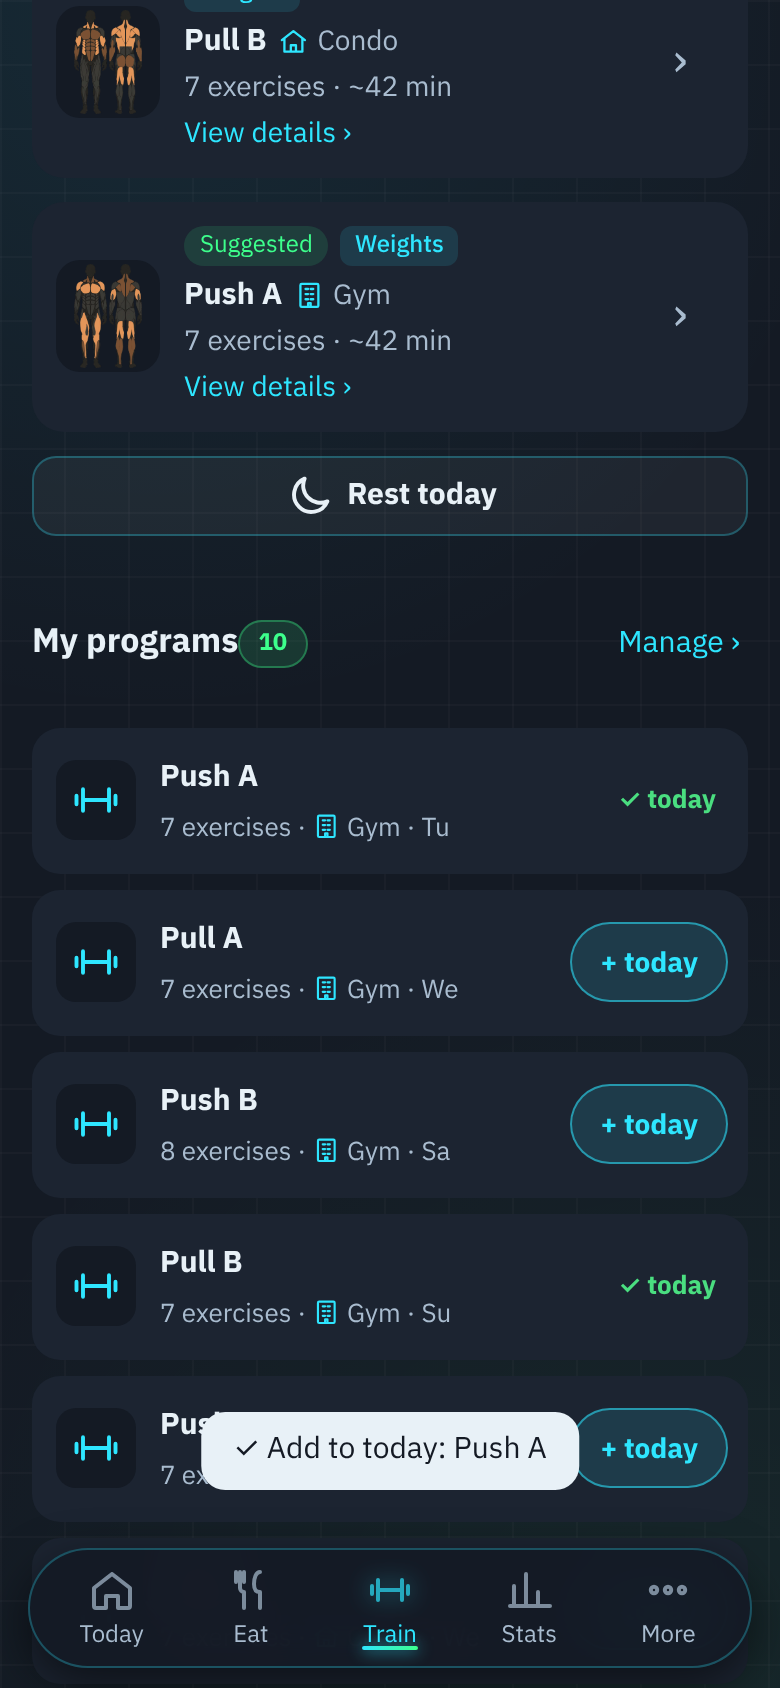
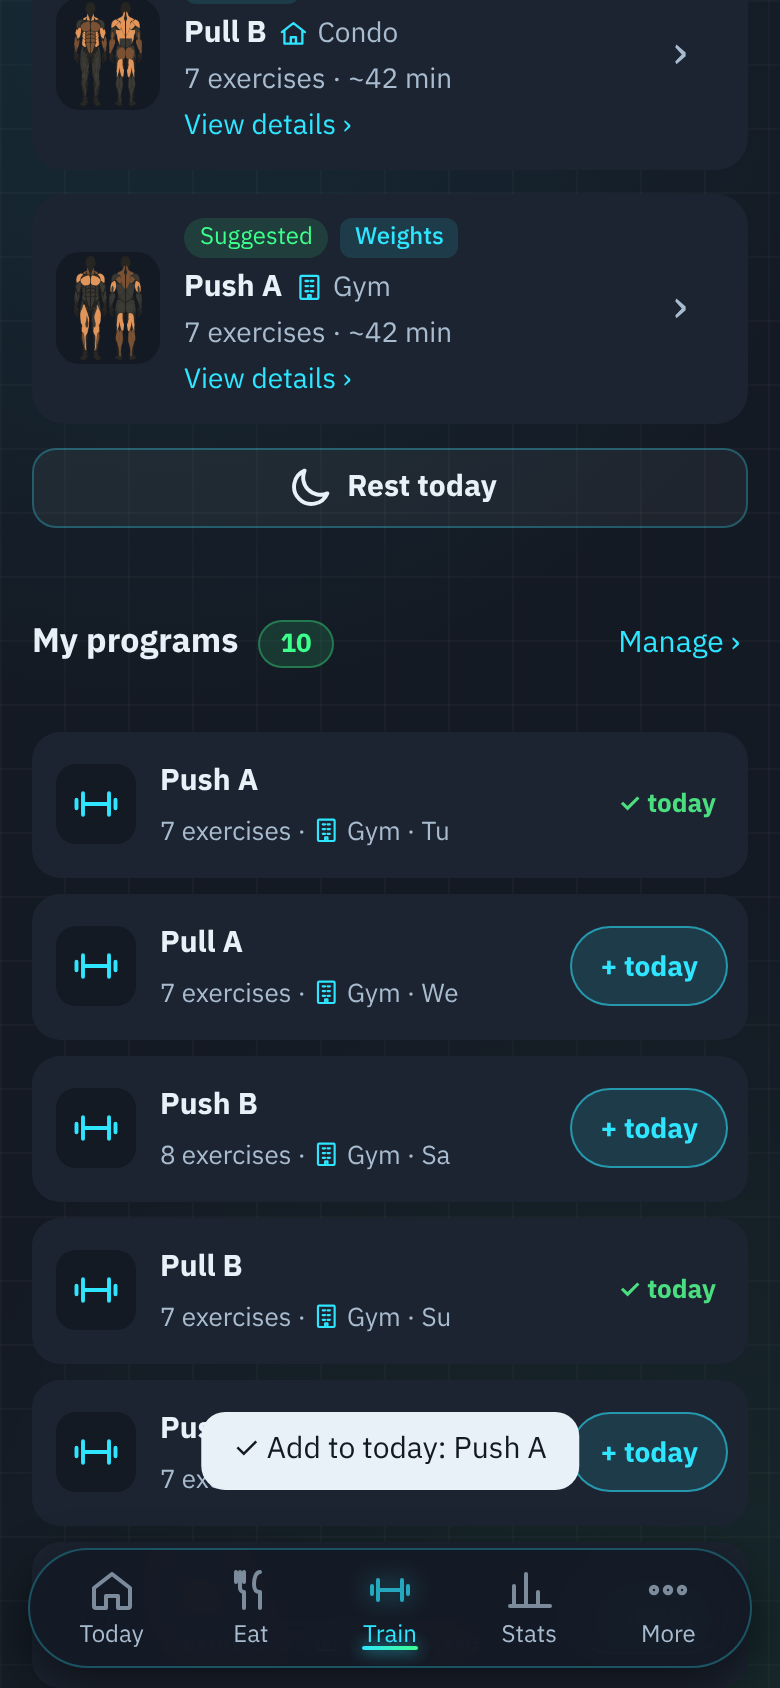
Train: My programs header spacing (#246)
* Today: show where — place on each item, pick a place when a program is planned at several

Claude-Session: https://claude.ai/code/session_01TA1QFnqgBxBRFsiXemJ9Lg

* fix(Today): crash with an empty plan or on a rest day

Claude-Session: https://claude.ai/code/session_01TA1QFnqgBxBRFsiXemJ9Lg

* Train: remove the Share button from the header

Claude-Session: https://claude.ai/code/session_01TA1QFnqgBxBRFsiXemJ9Lg

* Eat: space between Share meal plan and Manage plan buttons

Claude-Session: https://claude.ai/code/session_01TA1QFnqgBxBRFsiXemJ9Lg

* Today: positive reason for the pick, places for the suggested program, lift leads, next-meal glow

Claude-Session: https://claude.ai/code/session_01TA1QFnqgBxBRFsiXemJ9Lg

* fix(Today): suggested program shows only its own place

Claude-Session: https://claude.ai/code/session_01TA1QFnqgBxBRFsiXemJ9Lg

* fix(Today): one row per plan item like Train, one place each, no duplicate suggestion

Claude-Session: https://claude.ai/code/session_01TA1QFnqgBxBRFsiXemJ9Lg

* Today: every Start button the same shape and size

Claude-Session: https://claude.ai/code/session_01TA1QFnqgBxBRFsiXemJ9Lg

* Today: suggested item is always the first row; least-tired lift leads

Claude-Session: https://claude.ai/code/session_01TA1QFnqgBxBRFsiXemJ9Lg

* Today: shared week calendar, picking a day moves every tab

Claude-Session: https://claude.ai/code/session_01TA1QFnqgBxBRFsiXemJ9Lg
[…]

diff --git a/public/index.html b/public/index.html
@@ -8,11 +8,11 @@
 <meta name="apple-mobile-web-app-status-bar-style" content="black-translucent">
 <meta name="apple-mobile-web-app-title" content="WeightGram">
 <link rel="manifest" href="/manifest.webmanifest">
-<link rel="apple-touch-icon" href="/apple-touch-icon.png?v=138675">
+<link rel="apple-touch-icon" href="/apple-touch-icon.png?v=138676">
 <title>WeightGram</title>
 <link rel="stylesheet" href="https://fonts.googleapis.com/css2?family=IBM+Plex+Sans+Thai:wght@400;500;700&family=IBM+Plex+Mono:wght@400;500&family=Share+Tech+Mono&display=swap">
 <style>:root{padding-top:env(safe-area-inset-top,0px);padding-bottom:env(safe-area-inset-bottom,0px)}*{-webkit-tap-highlight-color:transparent}body{margin:0;font-size:var(--t-sm);font-family:system-ui,sans-serif}img{max-width:100%}[hidden]{display:none!important}</style>
-<link rel="stylesheet" href="/css/app.css?v=138675">
+<link rel="stylesheet" href="/css/app.css?v=138676">
 </head><body>
 
 <div class="wrap">
@@ -283,39 +283,39 @@
   </div>
 </div>
 
-<script src="/js/core.js?v=138675"></script>
-<script src="/js/food.js?v=138675"></script>
-<script src="/js/locations.js?v=138675"></script>
-<script src="/js/programs.js?v=138675"></script>
-<script src="/js/run.js?v=138675"></script>
-<script src="/js/workout.js?v=138675"></script>
-<script src="/js/exercise-edit.js?v=138675"></script>
-<script src="/js/edit-tx.js?v=138675"></script>
-<script src="/js/exercise-library.js?v=138675"></script>
-<script src="/js/program-manager.js?v=138675"></script>
-<script src="/js/hero.js?v=138675"></script>
-<script src="/js/rest-timer.js?v=138675"></script>
-<script src="/js/auth.js?v=138675"></script>
-<script src="/js/push.js?v=138675"></script>
-<script src="/js/data-io.js?v=138675"></script>
-<script src="/js/sync.js?v=138675"></script>
-<script src="/js/muscle-map.js?v=138675"></script>
-<script src="/js/progress.js?v=138675"></script>
-<script src="/js/history-chart.js?v=138675"></script>
-<script src="/js/stats-extra.js?v=138675"></script>
-<script src="/js/meal-plan.js?v=138675"></script>
-<script src="/js/undo.js?v=138675"></script>
-<script src="/js/home.js?v=138675"></script>
-<script src="/js/share.js?v=138675"></script>
-<script src="/js/explore.js?v=138675"></script>
-<script src="/js/onboarding.js?v=138675"></script>
-<script src="/js/account.js?v=138675"></script>
-<script src="/js/share-card.js?v=138675"></script>
-<script src="/js/number-pad.js?v=138675"></script>
-<script src="/js/refresh.js?v=138675"></script>
-<script src="/js/app.js?v=138675"></script>
-<script src="/js/stats-calm.js?v=138675"></script>
-<script src="/js/ai-coach.js?v=138675"></script>
+<script src="/js/core.js?v=138676"></script>
+<script src="/js/food.js?v=138676"></script>
+<script src="/js/locations.js?v=138676"></script>
+<script src="/js/programs.js?v=138676"></script>
+<script src="/js/run.js?v=138676"></script>
+<script src="/js/workout.js?v=138676"></script>
+<script src="/js/exercise-edit.js?v=138676"></script>
+<script src="/js/edit-tx.js?v=138676"></script>
+<script src="/js/exercise-library.js?v=138676"></script>
+<script src="/js/program-manager.js?v=138676"></script>
+<script src="/js/hero.js?v=138676"></script>
+<script src="/js/rest-timer.js?v=138676"></script>
+<script src="/js/auth.js?v=138676"></script>
+<script src="/js/push.js?v=138676"></script>
+<script src="/js/data-io.js?v=138676"></script>
+<script src="/js/sync.js?v=138676"></script>
+<script src="/js/muscle-map.js?v=138676"></script>
+<script src="/js/progress.js?v=138676"></script>
+<script src="/js/history-chart.js?v=138676"></script>
+<script src="/js/stats-extra.js?v=138676"></script>
+<script src="/js/meal-plan.js?v=138676"></script>
+<script src="/js/undo.js?v=138676"></script>
+<script src="/js/home.js?v=138676"></script>
+<script src="/js/share.js?v=138676"></script>
+<script src="/js/explore.js?v=138676"></script>
+<script src="/js/onboarding.js?v=138676"></script>
+<script src="/js/account.js?v=138676"></script>
+<script src="/js/share-card.js?v=138676"></script>
+<script src="/js/number-pad.js?v=138676"></script>
+<script src="/js/refresh.js?v=138676"></script>
+<script src="/js/app.js?v=138676"></script>
+<script src="/js/stats-calm.js?v=138676"></script>
+<script src="/js/ai-coach.js?v=138676"></script>
 
 <div id="rec-wrap" class="stack" style="gap:10px" hidden><div class="rcf-head"><div class="sec-t" data-i="การฟื้นตัวของกล้ามเนื้อ">การฟื้นตัวของกล้ามเนื้อ</div><button class="btn sm" id="rec-cfg">⚙ <span data-i="ตั้งเวลาฟื้นตัว">ตั้งเวลาฟื้นตัว</span></button></div><div class="card" id="rec-body"></div></div>
 </body></html>

diff --git a/public/css/app.css b/public/css/app.css
@@ -1746,3 +1746,6 @@ body:has(#tx-bar:not([hidden])) :is(#pm-modal .modal-in,#gen-body,#lib-modal .mo
 .pa-add{flex:none;height:40px;padding:0 14px;border-radius:999px;border:1px solid color-mix(in srgb,var(--cyan) 55%,transparent);background:color-mix(in srgb,var(--cyan) 12%,transparent);color:var(--cyan);font:600 14px var(--f-body);cursor:pointer;white-space:nowrap}
 .pa-on{flex:none;color:#4ade80;font:600 13px var(--f-body);padding:0 6px;white-space:nowrap}
 #v-gym .pl-acts [data-pladd]{display:none!important}#v-gym .pl-acts{grid-template-columns:1fr!important}
+.pl-allh .pl-h{display:flex!important;align-items:center;gap:10px;font-size:17px!important}
+.pl-allh .pl-h .pill{margin:0!important;position:static!important;font-size:13px;padding:2px 10px;line-height:1.4}
+.pl-allh{margin:24px 0 10px!important}.pl-allh .hq-l{font-size:15px}

diff --git a/docs/work/2026-11-21-train-calm/plan-mp-head.md b/docs/work/2026-11-21-train-calm/plan-mp-head.md
@@ -1,0 +1,2 @@
+# My programs header
+- [x] count pill no longer overlaps title; flex row with gap, same heading size
